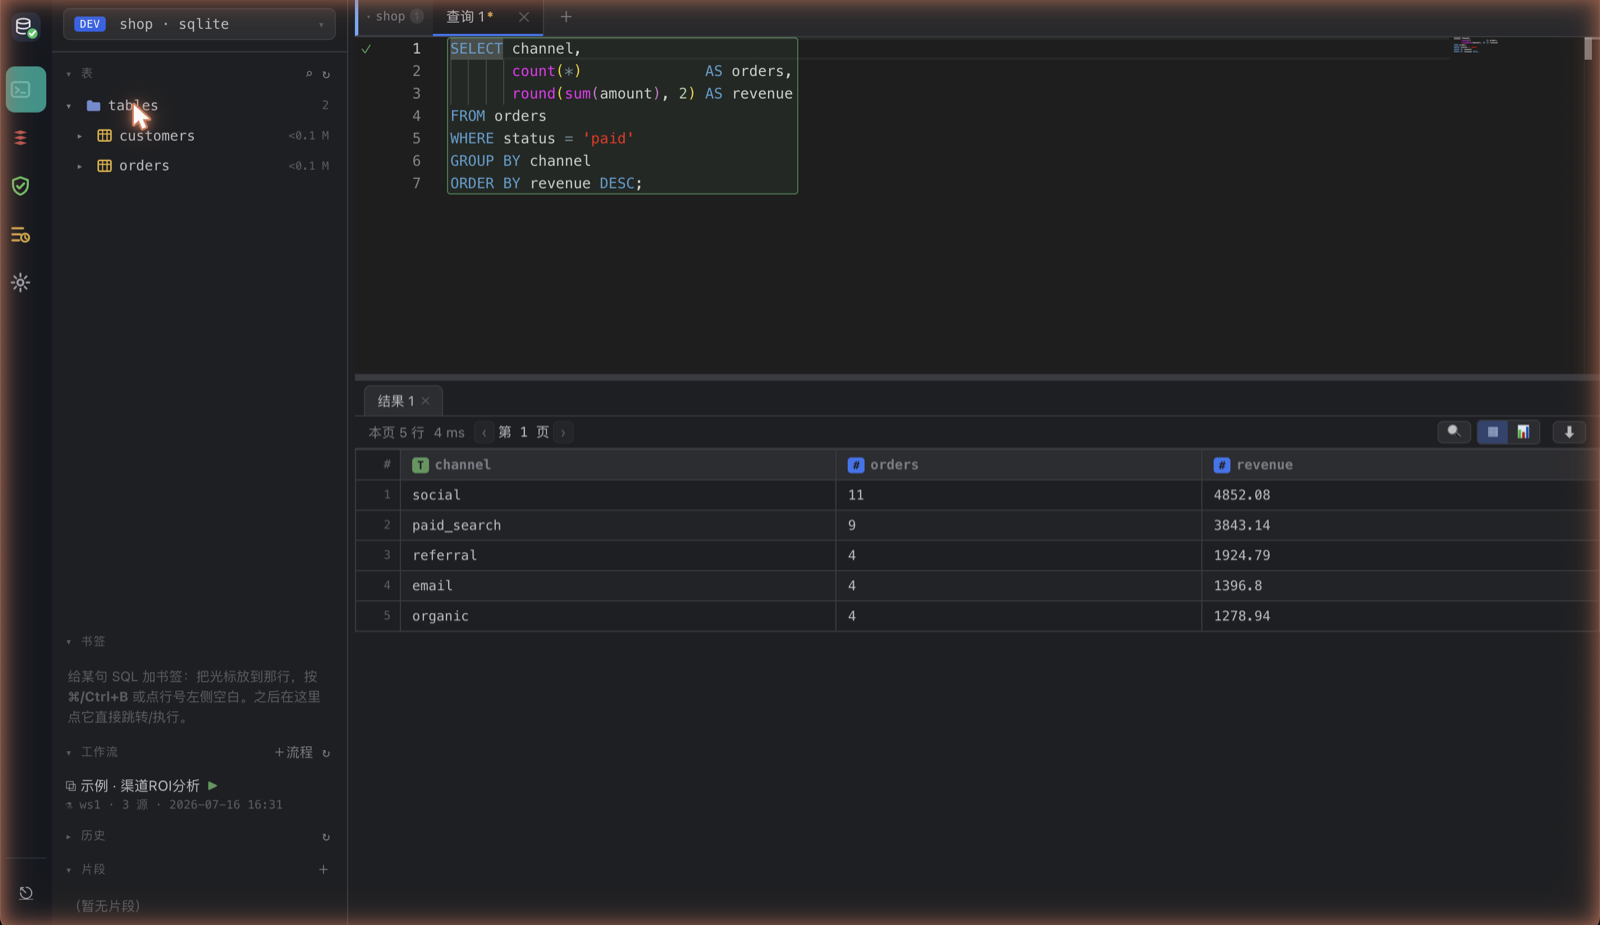
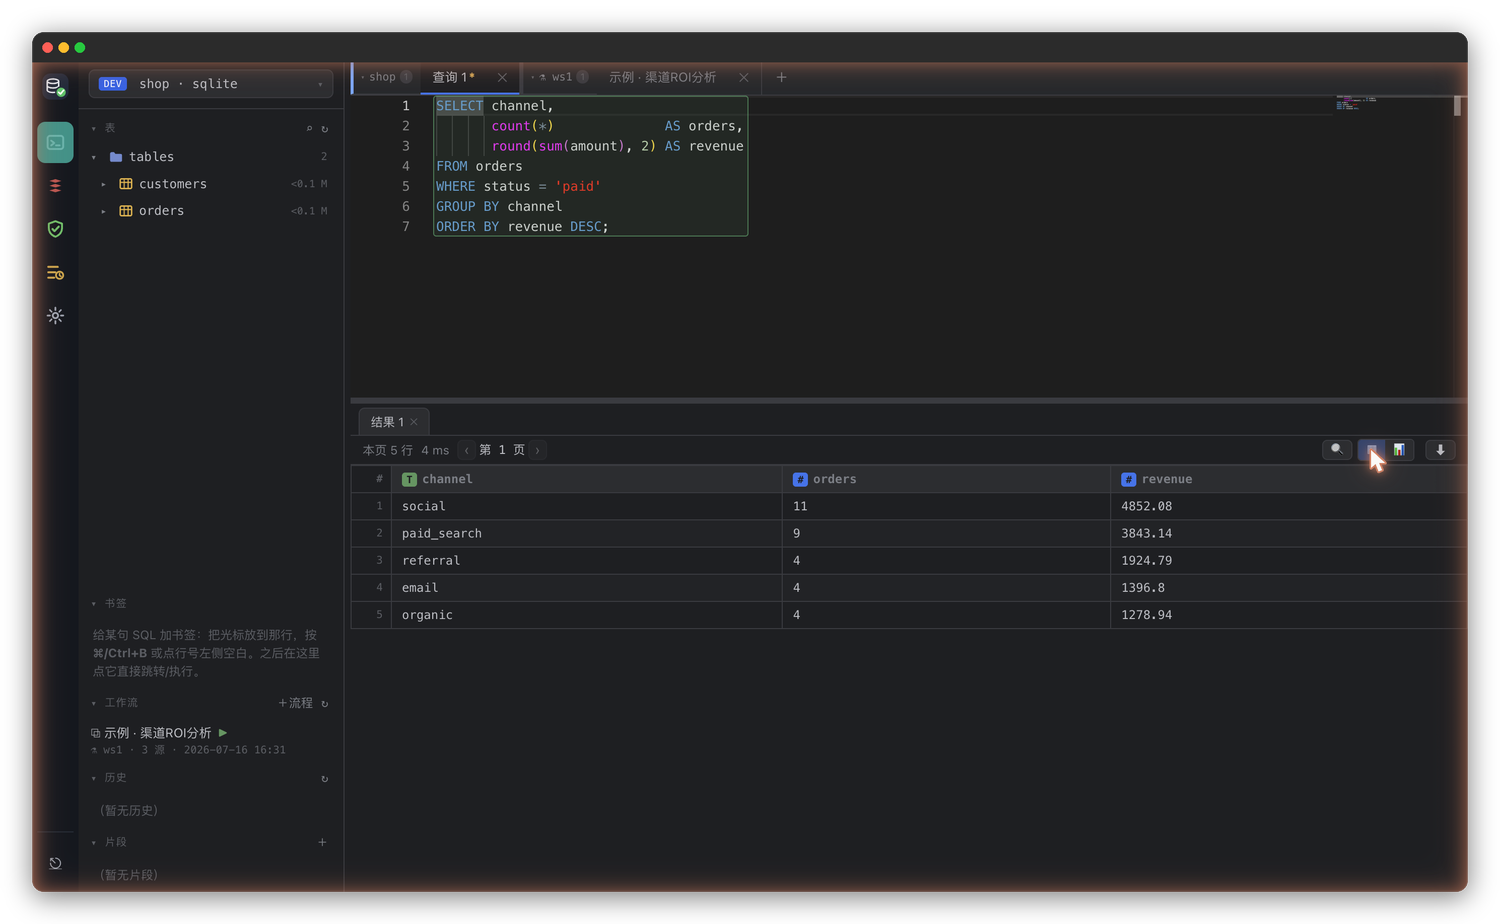
docs: hero GIF + 每前端配图（Redis/分析折叠）+ 截图套窗口边框；修左栏图标未居中
- 修 bug：查询台/Redis 收起态左导航图标未水平居中——`.side nav a` 收起时
  仍继承 admin-chrome 的 gap:10px，图标后的零宽文字节点仍占 gap，居中时图标左偏 ~5px。
  收起态加 gap:0 归零。
- hero 改动图（GIF：结果网格 ↔ 图表切换，~120KB）。
- 每个界面都配图：查询台展开示例；Redis 控制台、分析工作台/DAG 折进 <details>。
- 所有静态截图套 mac 窗口边框（红黄绿三点 + 圆角 + 投影，Pillow 生成）。
- 截图均在隔离演示实例（8201 + 临时目录 + sqlite/redis 演示数据）截取，不碰正式实例。

Claude-Session: https://claude.ai/code/session_01P4HvvfQwG68f9rdV5fsSz7

Changed region(s): [[0.0, 0.0, 1.0, 1.0], [0.736, 0.4848, 0.828, 0.697], [0.5213, 0.4848, 0.5827, 0.5455]]

diff --git a/src/dbmcp/static/console.css b/src/dbmcp/static/console.css
@@ -8,7 +8,7 @@ main { padding: 0 !important; max-width: none !important; height: 100vh; overflo
 .side .brand { padding: 0 0 16px !important; justify-content: center; }
 .side .brand > div { display: none; }
 .side .brand svg { width: 26px !important; height: 26px !important; }
-.side nav a { font-size: 0; justify-content: center; padding: 11px 0 !important; }
+.side nav a { font-size: 0; justify-content: center; gap: 0 !important; padding: 11px 0 !important; }
 .side nav a .nico { width: 19px; height: 19px; opacity: .9; }
 .side nav a .nav-count { font-size: 10px; position: absolute; transform: translate(10px, -8px); }
 .side nav a { position: relative; }

diff --git a/README.en.md b/README.en.md
@@ -12,7 +12,7 @@
 
 **English** · [简体中文](README.md)
 
-<img src="assets/screenshots/query-console.png" width="880" alt="Quay query console">
+<img src="assets/screenshots/hero.gif" width="880" alt="Run a query, flip the result into a chart">
 
 </div>
 
@@ -76,7 +76,7 @@ flowchart TB
 
 A dark, DataGrip-style SQL IDE — connect, browse, query, export, all on one screen.
 
-<img src="assets/screenshots/query-console-chart.png" width="820" alt="Flip a result into a chart">
+<img src="assets/screenshots/query-console.png" width="820" alt="Query console: object tree, editor, result grid">
 
 - **Object tree**: database → table → columns/indexes/keys, table size graded in M/G/T; ⌘-select
   tables and batch DROP from the context menu (a red confirm bar stands in the way).
@@ -94,10 +94,15 @@ A write pops a risk report first (which tables, how many rows, index hit or not,
 after you confirm does the writer account run it, with an audit record. This is a backend bypass —
 an agent's writes still go through the approval flow.
 
-## Redis console
+<details>
+<summary><b>🧊 Redis console</b> — a separate page, built against Medis (expand for a screenshot)</summary>
+
+<br>
 
 Key-value and relational models are too far apart to share a console without fighting each other,
 so Redis gets its own page, built against Medis.
+
+<img src="assets/screenshots/redis-console.png" width="820" alt="Redis console: prefix key tree, type badges, key detail">
 
 - Left column, database → key: all logical DBs listed, non-empty ones show a key count; keys form a
   tree by `:` prefix, folders drill down one branch at a time, types carry colored badges.
@@ -107,16 +112,25 @@ so Redis gets its own page, built against Medis.
   `ACL` output are masked.
 - A docs panel on the right follows the cursor, links to redis.io, covers 176 common commands.
 
-## Analysis workbench
+</details>
+
+<details>
+<summary><b>🔬 Analysis workbench</b> — DuckDB cross-source analysis + DAG orchestration (expand for a screenshot)</summary>
+
+<br>
 
 Snapshot data from different databases, tables, and local CSV/Parquet files into a local DuckDB
 sandbox, then JOIN, aggregate, and build views freely. Cross-source analysis goes from "not
 possible" to "one sentence" for an agent — the fetch runs through reader + audit + a row cap, the
 computation stays in the sandbox, and only the small result comes back to the context.
 
+<img src="assets/screenshots/analysis-dag.png" width="820" alt="DAG canvas: fetch → filter → JOIN → aggregate → SQL">
+
 You don't need to write SQL either: click "＋Flow" in the query console, drag nodes (fetch / filter
 / JOIN / aggregate / SQL / output) into a data-flow graph, run it, and watch each node get marked.
 The graph is saved with the workflow so people and agents can re-run it. See **[ANALYSIS.md](ANALYSIS.md)**.
+
+</details>
 
 ## How a write gets through
 

diff --git a/README.md b/README.md
@@ -12,7 +12,7 @@
 
 **简体中文** · [English](README.en.md)
 
-<img src="assets/screenshots/query-console.png" width="880" alt="Quay 查询台">
+<img src="assets/screenshots/hero.gif" width="880" alt="查询台：跑一条 SQL，结果一键切图表">
 
 </div>
 
@@ -69,7 +69,7 @@ flowchart TB
 
 DataGrip 式的深色 SQL IDE，连库、看表、查数、导出一屏搞定。
 
-<img src="assets/screenshots/query-console-chart.png" width="820" alt="结果一键切图表">
+<img src="assets/screenshots/query-console.png" width="820" alt="查询台：对象树 + 编辑器 + 结果网格">
 
 - **对象树**：库 → 表 → 列/索引/键，表容量按 M/G/T 分级；⌘ 多选表右键批量 DROP（红色确认条挡一道）。
 - **编辑器**：Monaco 内核，补全认上下文（`FROM` 后补表、`别名.` 补列、`库.` 补表），多语句只跑光标那条，EXPLAIN 出可视化计划树。
@@ -80,22 +80,36 @@ DataGrip 式的深色 SQL IDE，连库、看表、查数、导出一屏搞定。
 写语句先弹风险报告（影响哪些表、多少行、命中索引没、执行计划），确认了才由 writer 账号执行并审计。
 这是后台旁路——agent 的写操作照样得走审批流。
 
-## Redis 控制台
+<details>
+<summary><b>🧊 Redis 控制台</b> —— 对标 Medis 的独立页（点开看截图）</summary>
+
+<br>
 
 键值和关系两套模型差太远，硬塞进查询台只会互相拖累，所以单开一页，对着 Medis 做。
+
+<img src="assets/screenshots/redis-console.png" width="820" alt="Redis 控制台：前缀键树 + 类型徽章 + 键详情">
 
 - 左栏库 → 键：库列全、有数据的标键数；键按 `:` 前缀成树，点文件夹一路钻到底，类型带彩色徽章。
 - 键详情按类型展开，带 TTL / 内存 / 编码；msgpack 值自动解成 JSON。
 - 命令窗口 Monaco，光标行执行；读直通、写要确认；**prod 写命令得再输一遍连接名**；`CONFIG GET` / `ACL` 结果里的密码口令自动打码。
 - 右侧命令文档随光标切，链到 redis.io，覆盖 176 条常用命令。
 
-## 分析工作台
+</details>
+
+<details>
+<summary><b>🔬 分析工作台</b> —— DuckDB 跨源分析 + DAG 编排（点开看截图）</summary>
+
+<br>
 
 把不同库、不同表、本地 CSV/Parquet 的数据快照进本地 DuckDB 沙箱，随便 JOIN、聚合、建视图。
 跨源分析对 agent 从“做不到”变成“一句话”——取数走 reader + 审计 + 行数上限，算在沙箱里，只把小结果带回上下文。
 
+<img src="assets/screenshots/analysis-dag.png" width="820" alt="DAG 画布：取数 → 过滤 → JOIN → 聚合 → SQL">
+
 不会写 SQL 也能搭：查询台点「＋流程」，拖节点（取数 / 过滤 / JOIN / 聚合 / SQL / 输出）连成数据流图，
 一键跑、逐节点标状态，图随 workflow 存，人和 agent 都能重跑。详见 **[ANALYSIS.md](ANALYSIS.md)**。
+
+</details>
 
 ## 写操作怎么放行
 